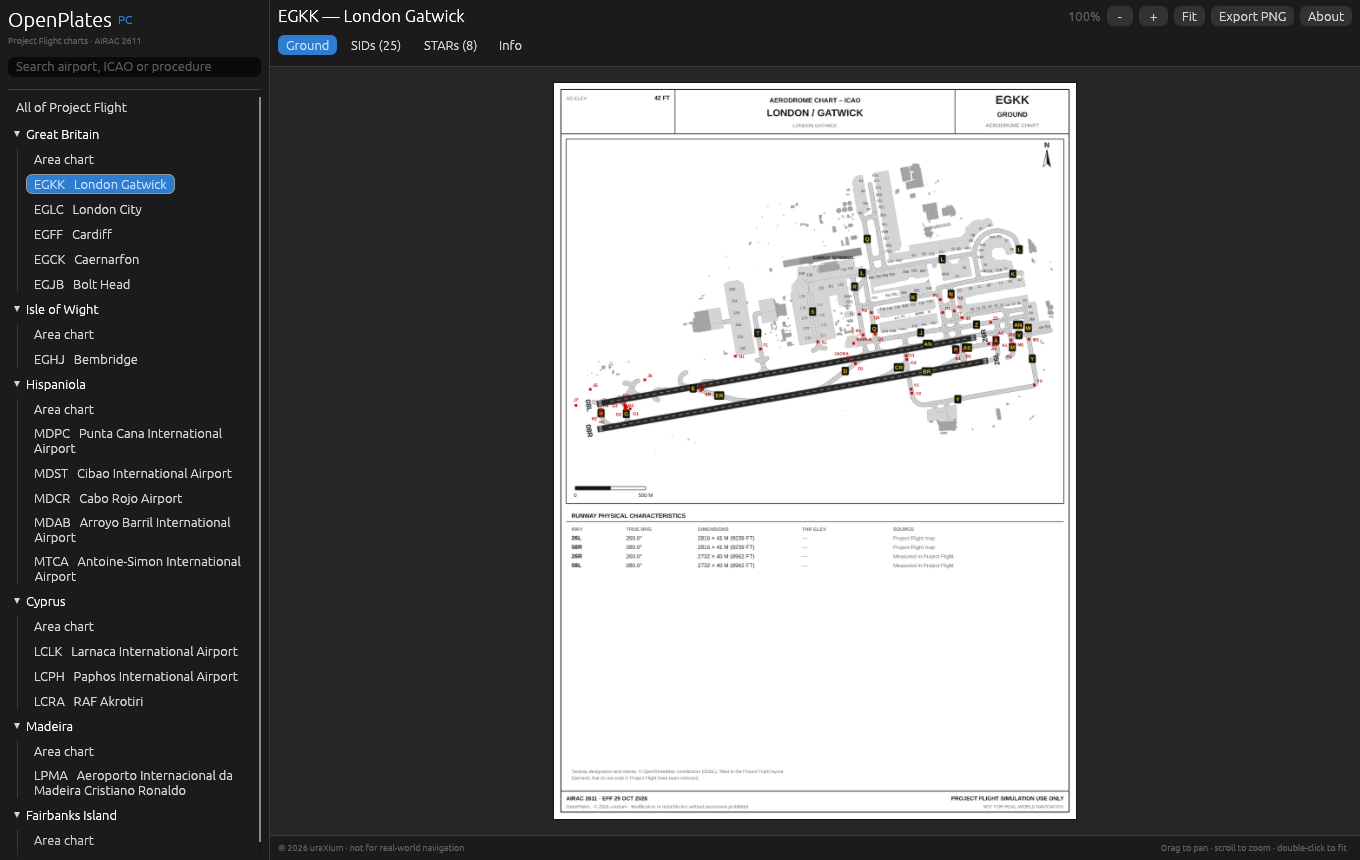
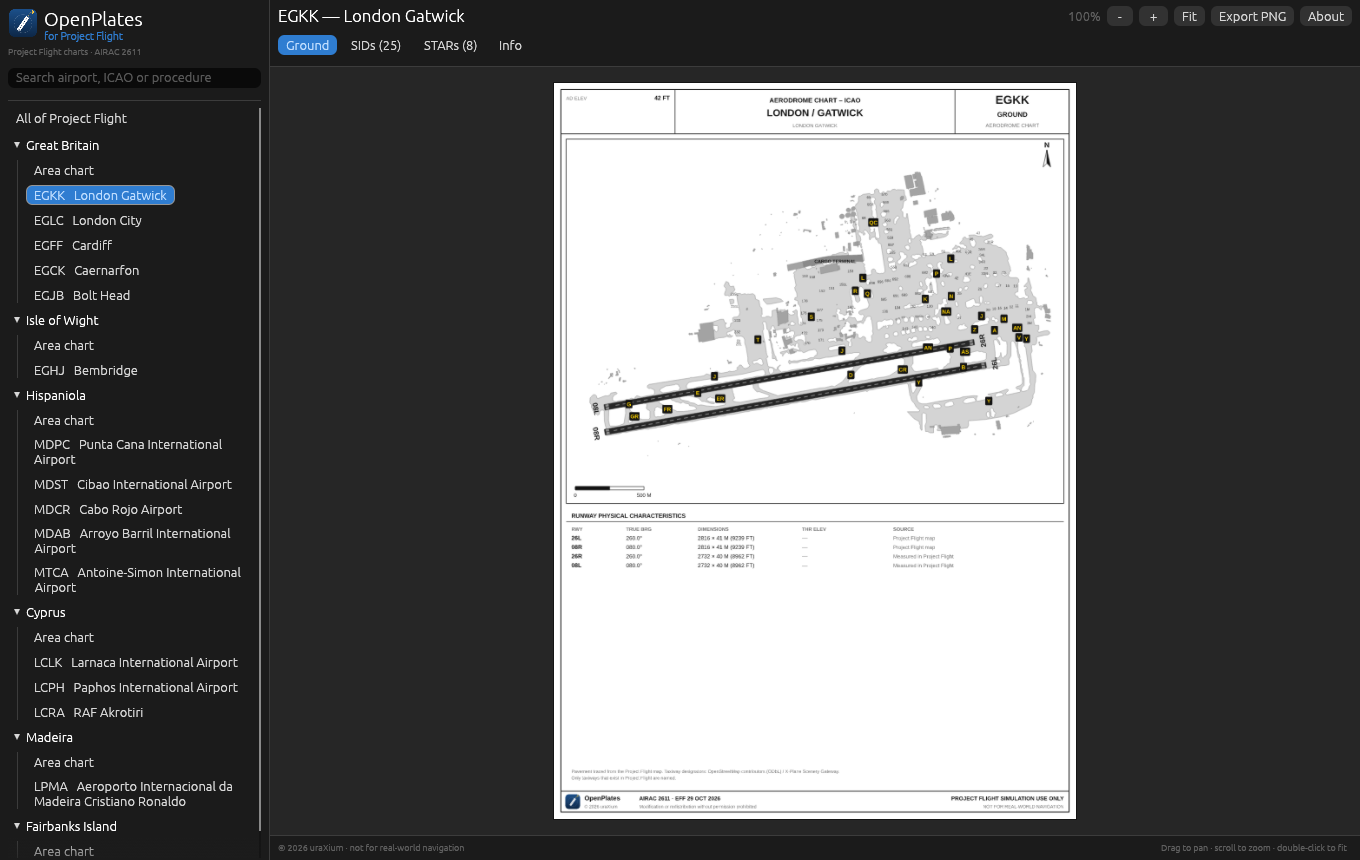
v1.2.1: redrawn aerodrome charts
- Pavement now traced from the Project Flight map (runways, taxiways, aprons as they are in PF)
- Taxiway layout warped onto PF imagery and anchored to PF runways, so taxiways connect properly
- Taxiway designators from OpenStreetMap + X-Plane Scenery Gateway (MDST, MTCA, LPMA, EGFF, ... now named)
- Small grass fields (EGHJ, EGJB, EGCK) show the aerodrome boundary instead of a solid blob
- Removed holding-point clutter

Claude-Session: https://claude.ai/code/session_01JxLUMjebFEgZfKCMFG25PB

Changed region(s): [[0.0, 0.0, 0.1853, 0.9977], [0.4324, 0.1814, 0.7721, 0.514], [0.4015, 0.907, 0.525, 0.9372]]

diff --git a/README.md b/README.md
@@ -118,6 +118,6 @@ Wrong chart? Open an issue with the airport, chart name and what's off (a screen
 - **Name:** "OpenPlates" may not be used for modified versions without permission.
 - **Charts** (the chart bundle shipped in the official release, and images exported from it): © 2026 uraXium, all rights reserved. You may use them and share unmodified exports; modifying or redistributing them requires prior permission from uraXium.
 - **Fonts:** Liberation Sans, [SIL Open Font License 1.1](assets/OFL.txt).
-- **Data credits:** waypoints from PFTracker; some ground layouts © [OpenStreetMap](https://www.openstreetmap.org/copyright) contributors (ODbL 1.0).
+- **Data credits:** waypoints from PFTracker; some ground layouts © [OpenStreetMap](https://www.openstreetmap.org/copyright) contributors (ODbL 1.0); some taxiway designators from the X-Plane Scenery Gateway. Aerodrome pavement is traced from the Project Flight map.
 
 Project Flight and Roblox are trademarks of their respective owners. OpenPlates is a fan project and is not endorsed by them.
